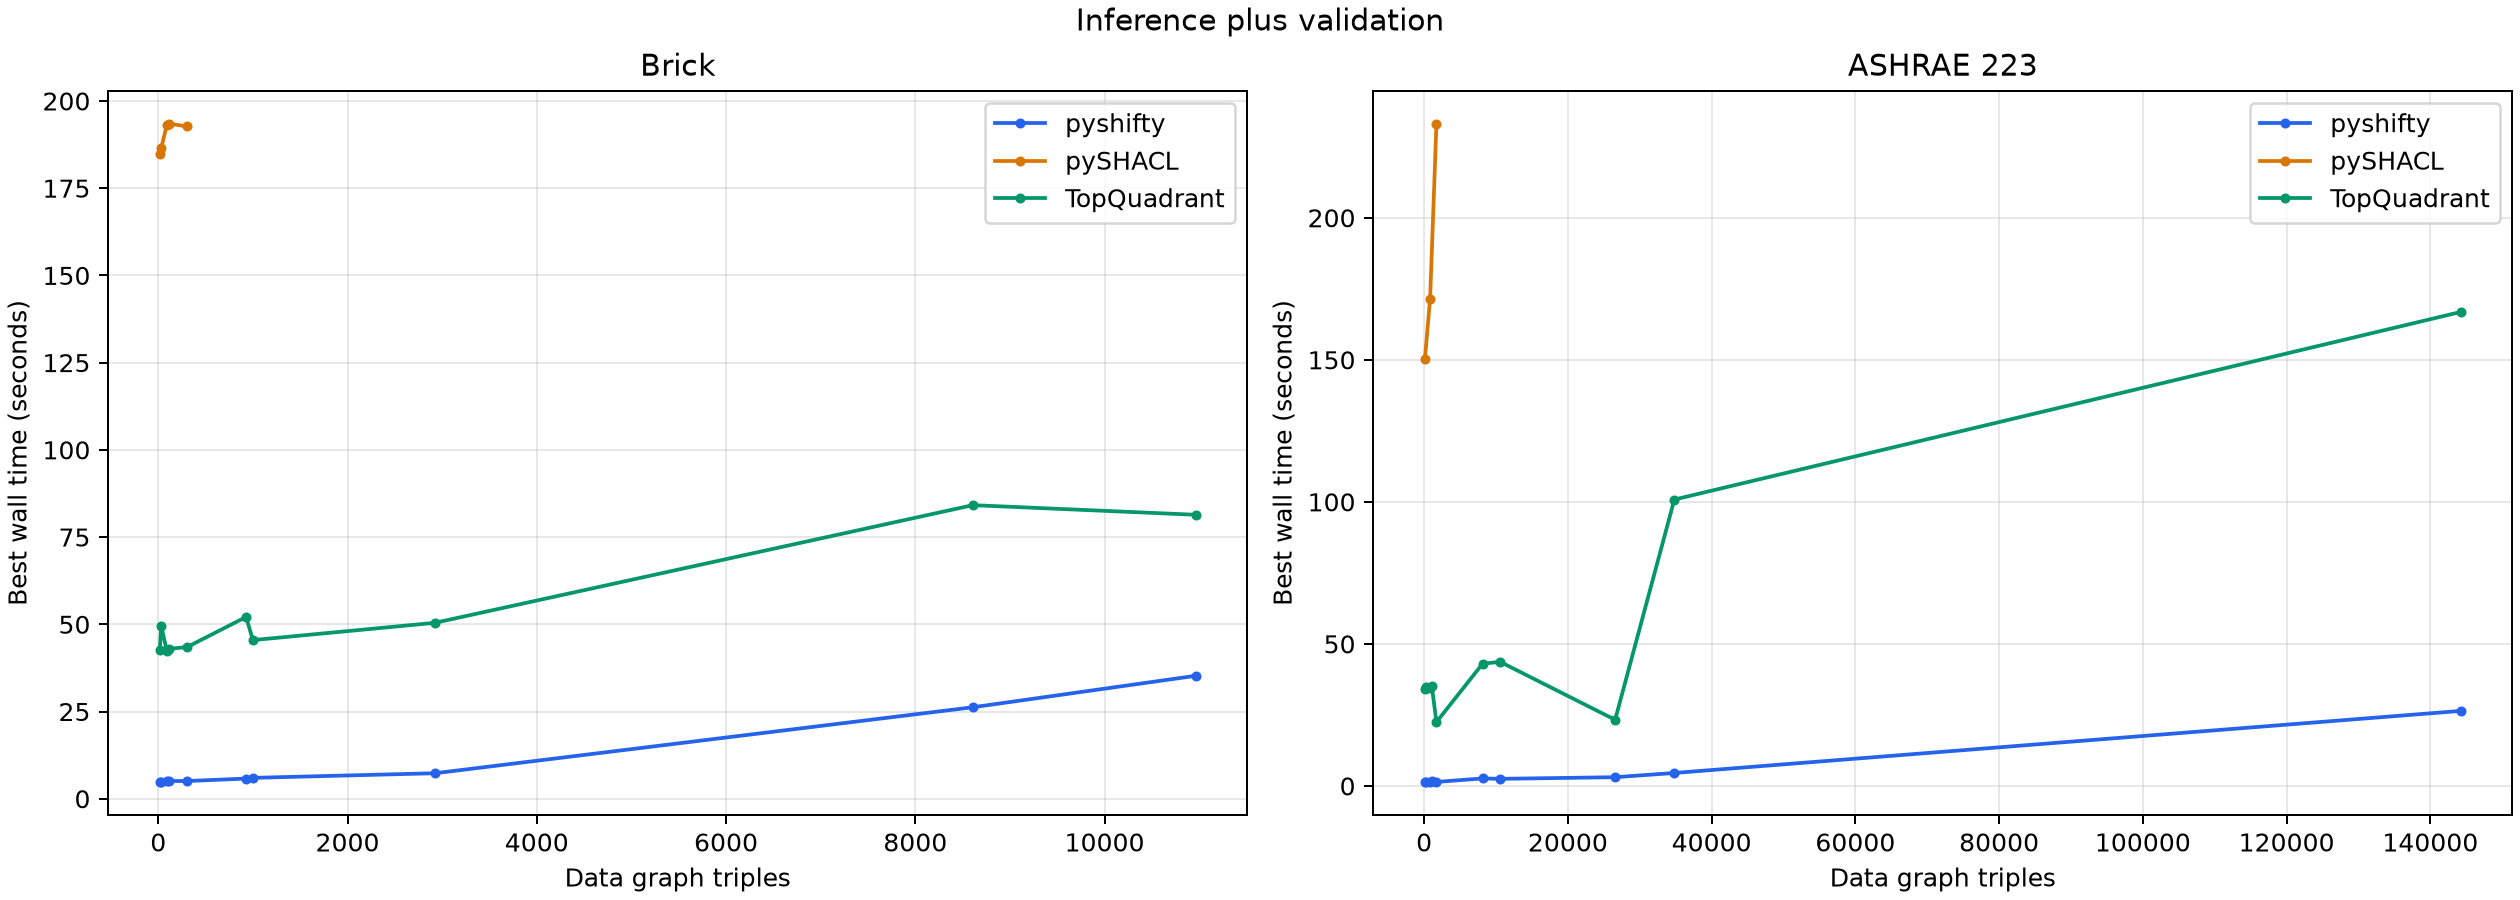
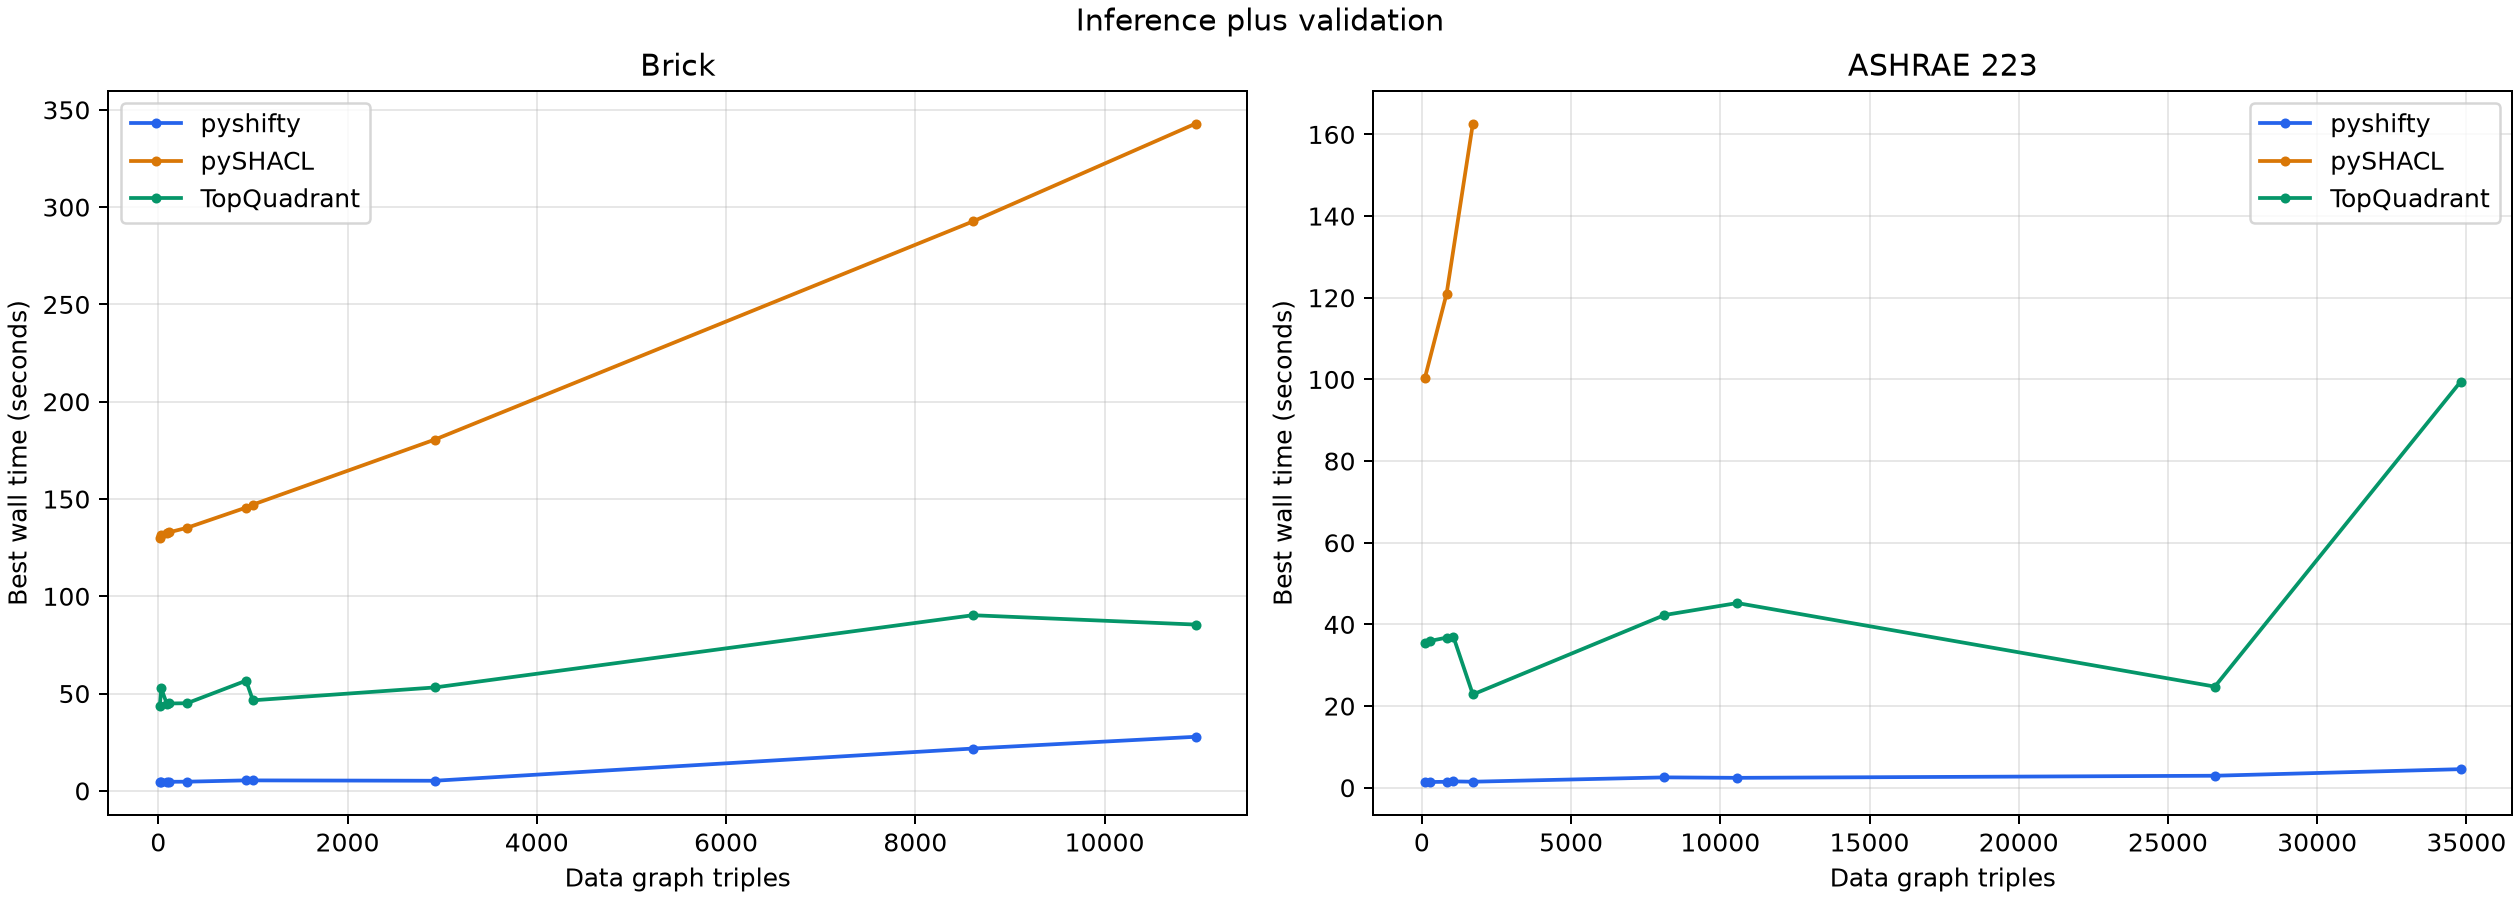
udpate bench

diff --git a/content/posts/SHACL/shifty.md b/content/posts/SHACL/shifty.md
@@ -138,32 +138,32 @@ for violation in result.violations():
 
 Shifty *roughly* an order of magnitude faster than TopQuadrant's SHACL implementation, and two orders of magnitude faster than pySHACL on the Brick and 223P benchmarks.
 
-The results below are from a simple benchmark (I will add more rigorous benchmarks in the future) that runs inference and then validation on a number of Brick and 223P graphs, and compares the time taken by shifty, TopQuadrant's SHACL implementation, and pySHACL.
+The results below are from a simple benchmark that runs inference and then validation on a number of Brick and 223P graphs, and compares the time taken by shifty, TopQuadrant's SHACL implementation, and pySHACL.
 The engines were each given the full "imports closure" of the Brick and 223P ontologies, and the time taken to load the ontologies is included in the benchmark results.
-I gave all engines a 5 minute timeout (300 seconds), and any engine that took longer than 5 minutes was terminated and marked as "—" in the results below.
+I gave all engines a 10 minute timeout (500 seconds), and any engine that took longer than 5 minutes was terminated and marked as "—" in the results below.
+The times recorded are the best of 5 runs.
 
 | Ontology | Model | Triples | pyshifty (s) | TopQuadrant (s) | pySHACL (s) | pyshifty vs TQ | pyshifty vs pySHACL |
 |---|---:|---:|---:|---:|---:|---:|---:|
-| brick | bldg24.ttl | 16 | 4.78 | 42.68 | 184.87 | 8.9x | 38.7x |
-| brick | bldg31.ttl | 31 | 4.88 | 49.52 | 186.47 | 10.2x | 38.2x |
-| brick | bldg16.ttl | 90 | 5.00 | 42.42 | 193.11 | 8.5x | 38.6x |
-| brick | bldg25.ttl | 113 | 5.09 | 42.98 | 193.50 | 8.4x | 38.0x |
-| brick | bldg19.ttl | 304 | 5.07 | 43.46 | 192.71 | 8.6x | 38.0x |
-| brick | bldg4.ttl | 928 | 5.79 | 52.10 | — | 9.0x | — |
-| brick | bldg8.ttl | 1000 | 5.98 | 45.47 | — | 7.6x | — |
-| brick | bldg30.ttl | 2924 | 7.31 | 50.43 | — | 6.9x | — |
-| brick | bldg11.ttl | 8608 | 26.22 | 84.15 | — | 3.2x | — |
-| brick | bldg37.ttl | 10962 | 35.23 | 81.39 | — | 2.3x | — |
-| s223 | guideline36-2021-A-1.ttl | 102 | 1.37 | 34.29 | 150.21 | 25.1x | 109.8x |
-| s223 | guideline36-2021-A-4.ttl | 257 | 1.35 | 34.69 | — | 25.6x | — |
-| s223 | NIST-HPL.ttl | 829 | 1.39 | 34.31 | 171.55 | 24.7x | 123.7x |
-| s223 | guideline36-2021-A-9.ttl | 1060 | 1.57 | 35.14 | — | 22.4x | — |
-| s223 | lbnl-example-radiant.ttl | 1709 | 1.41 | 22.48 | 233.15 | 16.0x | 165.8x |
-| s223 | nrel-example.ttl | 8130 | 2.63 | 43.02 | — | 16.3x | — |
-| s223 | lbnl-bdg4-1.ttl | 10568 | 2.49 | 43.68 | — | 17.5x | — |
-| s223 | lbnl-bdg3-1.ttl | 26571 | 3.07 | 23.28 | — | 7.6x | — |
-| s223 | pnnl-bdg2-1.ttl | 34810 | 4.56 | 100.81 | — | 22.1x | — |
-| s223 | large_223p_anon.ttl | 144226 | 26.41 | 166.85 | — | 6.3x | — |
+| brick | bldg24.ttl | 16 | 4.54 | 43.49 | 130.05 | 9.6x | 28.7x |
+| brick | bldg31.ttl | 31 | 4.58 | 52.67 | 131.57 | 11.5x | 28.7x |
+| brick | bldg16.ttl | 90 | 4.59 | 44.83 | 132.73 | 9.8x | 28.9x |
+| brick | bldg25.ttl | 113 | 4.68 | 44.93 | 132.88 | 9.6x | 28.4x |
+| brick | bldg19.ttl | 304 | 4.73 | 45.05 | 135.21 | 9.5x | 28.6x |
+| brick | bldg4.ttl | 928 | 5.41 | 56.64 | 145.60 | 10.5x | 26.9x |
+| brick | bldg8.ttl | 1000 | 5.40 | 46.55 | 147.12 | 8.6x | 27.2x |
+| brick | bldg30.ttl | 2924 | 5.22 | 53.17 | 180.57 | 10.2x | 34.6x |
+| brick | bldg11.ttl | 8608 | 21.77 | 90.29 | 292.64 | 4.1x | 13.4x |
+| brick | bldg37.ttl | 10962 | 27.81 | 85.48 | 342.91 | 3.1x | 12.3x |
+| s223 | guideline36-2021-A-1.ttl | 102 | 1.38 | 35.51 | 100.36 | 25.6x | 72.5x |
+| s223 | guideline36-2021-A-4.ttl | 257 | 1.41 | 35.91 | — | 25.5x | — |
+| s223 | NIST-HPL.ttl | 829 | 1.45 | 36.76 | 120.99 | 25.3x | 83.4x |
+| s223 | guideline36-2021-A-9.ttl | 1060 | 1.55 | 36.90 | — | 23.7x | — |
+| s223 | lbnl-example-radiant.ttl | 1709 | 1.47 | 22.84 | 162.64 | 15.5x | 110.5x |
+| s223 | nrel-example.ttl | 8130 | 2.54 | 42.29 | — | 16.7x | — |
+| s223 | lbnl-bdg4-1.ttl | 10568 | 2.42 | 45.23 | — | 18.7x | — |
+| s223 | lbnl-bdg3-1.ttl | 26571 | 2.94 | 24.76 | — | 8.4x | — |
+| s223 | pnnl-bdg2-1.ttl | 34810 | 4.55 | 99.47 | — | 21.9x | — |
 
 {{< figure width="100%" src="/posts/SHACL/img/inference_plus_validation.png" alt="Inference + Validation Time">}}
 
@@ -269,4 +269,3 @@ There's a lot more to say about shifty, which I won't cover in this post:
 - **SPARQL lowering**: SHACL's `sh:sparql` constraints can be compiled to a native plan over an immutable, multiply-indexed dataset, with Oxigraph as a fallback for full SPARQL 1.1. This gives **significant** speedups over existing SHACL implementations, which typically use a SPARQL engine to evaluate each `sh:sparql` constraint in isolation.
 - **Profiling**: Per-shape and per-query telemetry, accessible via the Python API or the CLI. On the 223P/NIST benchmark, profiling is what revealed where time was actually going, and eventually motivated the native SPARQL work.
 - **Symbolic repair**: A library API that computes the full space of possible repairs for a validation failure.
-
